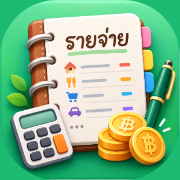
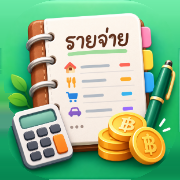
fix: ไอคอนเต็มสี่เหลี่ยม ไม่มีมุมมนติดมาในไฟล์ (v61)
ไฟล์ไอคอนเดิมวาดกรอบมนไว้ในภาพ ทำให้เหลือสีพื้นหลังเป็นลิ่มอยู่ 4 มุม
พอ Android/Play ตัดมุมให้เองอีกชั้นจึงกลายเป็นมนซ้อนมน

- เติมพื้นที่นอกกรอบมนของ icon-32/180/192/512 ด้วยสีขอบที่เกลี่ยตามแนวตั้ง
  (ไม่เกิดเส้นริ้ว) ให้ภาพเต็มสี่เหลี่ยมทั้งใบ
- icon-maskable-512 พื้นหลังเรียบอยู่แล้ว ไม่ต้องแก้
- เรนเดอร์ feature graphic ใหม่ให้ใช้ไอคอนตัวใหม่
- icon-test เพิ่มการตรวจมุมทั้ง 4 ของทุกไฟล์ รวม 24 ข้อ

Claude-Session: https://claude.ai/code/session_012MR24SdryXokFHLu42M4Xt

diff --git a/index.html b/index.html
@@ -9,11 +9,11 @@
      ใส่ไว้ในหน้าเว็บโดยตรงเพื่อให้มีผลแม้โฮสต์จะตั้ง header ให้ไม่ได้
      (Tesseract.js ต้องใช้ Web Worker ผ่าน blob: และ wasm จึงต้องอนุญาตไว้) -->
 <meta http-equiv="Content-Security-Policy" content="default-src 'self'; base-uri 'self'; object-src 'none'; form-action 'self'; script-src 'self' blob: 'wasm-unsafe-eval' https://cdn.jsdelivr.net; worker-src 'self' blob:; child-src 'self' blob:; style-src 'self' 'unsafe-inline'; img-src 'self' data: blob:; font-src 'self' data:; manifest-src 'self'; connect-src 'self' data: blob: https://*.supabase.co https://cdn.jsdelivr.net https://tessdata.projectnaptha.com">
-<link rel="icon" type="image/png" sizes="32x32" href="assets/icon-32.png?v=60">
-<link rel="icon" type="image/png" sizes="192x192" href="assets/icon-192.png?v=60">
+<link rel="icon" type="image/png" sizes="32x32" href="assets/icon-32.png?v=61">
+<link rel="icon" type="image/png" sizes="192x192" href="assets/icon-192.png?v=61">
 <!-- iOS ไม่รองรับไอคอนแบบ SVG บนหน้าจอโฮม ต้องเป็น PNG เท่านั้น ไม่งั้นจะขึ้นเป็นตัวอักษรบนพื้นดำ -->
-<link rel="apple-touch-icon" sizes="180x180" href="assets/icon-180.png?v=60">
-<link rel="manifest" href="manifest.webmanifest?v=60">
+<link rel="apple-touch-icon" sizes="180x180" href="assets/icon-180.png?v=61">
+<link rel="manifest" href="manifest.webmanifest?v=61">
 <meta name="theme-color" media="(prefers-color-scheme: light)" content="#fbf7f2">
 <meta name="theme-color" media="(prefers-color-scheme: dark)" content="#14131a">
 <meta name="apple-mobile-web-app-capable" content="yes">
@@ -21,7 +21,7 @@
 <meta name="apple-mobile-web-app-status-bar-style" content="default">
 <meta name="apple-mobile-web-app-title" content="AmPayPay">
 <meta name="application-name" content="AmPayPay">
-<link rel="stylesheet" href="assets/styles.css?v=60">
+<link rel="stylesheet" href="assets/styles.css?v=61">
 </head>
 <body>
 <header class="topbar">
@@ -285,7 +285,7 @@
 <footer class="wrap foot">
   ข้อมูลเก็บในเครื่องของคุณ · เปิดซิงก์ ☁ เมื่ออยากใช้หลายเครื่อง
   · <a href="privacy.html">ความเป็นส่วนตัว</a>
-  <span class="ver">เวอร์ชัน 60</span>
+  <span class="ver">เวอร์ชัน 61</span>
 </footer>
 
 <div id="bookModal" class="modal" hidden>
@@ -425,12 +425,12 @@
 <div id="toast" class="toast" role="status" aria-live="polite" hidden></div>
 
 <script src="https://cdn.jsdelivr.net/npm/tesseract.js@5.1.1/dist/tesseract.min.js"></script>
-<script src="assets/vendor/qrcode.js?v=60"></script>
-<script src="assets/promptpay.js?v=60"></script>
-<script src="assets/config.js?v=60"></script>
-<script src="assets/parser.js?v=60"></script>
-<script src="assets/store.js?v=60"></script>
-<script src="assets/sync.js?v=60"></script>
-<script src="assets/app.js?v=60"></script>
+<script src="assets/vendor/qrcode.js?v=61"></script>
+<script src="assets/promptpay.js?v=61"></script>
+<script src="assets/config.js?v=61"></script>
+<script src="assets/parser.js?v=61"></script>
+<script src="assets/store.js?v=61"></script>
+<script src="assets/sync.js?v=61"></script>
+<script src="assets/app.js?v=61"></script>
 </body>
 </html>

diff --git a/sw.js b/sw.js
@@ -2,7 +2,7 @@
    1) รับ push แจ้งเตือนตอนปิดแอป
    2) แคชไฟล์แอปไว้ให้เปิดใช้งานได้ตอนเน็ตหลุด (network-first: ออนไลน์ได้ของใหม่เสมอ ออฟไลน์ใช้ของที่แคชไว้)
    ข้อมูลรายจ่ายอยู่ใน localStorage/IndexedDB ของเบราว์เซอร์อยู่แล้ว จึงใช้งานต่อได้เต็มรูปแบบตอนออฟไลน์ */
-var CACHE = 'ampaypay-v60';
+var CACHE = 'ampaypay-v61';
 var SHELL = [
   './', './index.html', './manifest.webmanifest',
   './assets/styles.css', './assets/config.js', './assets/parser.js', './assets/store.js',
